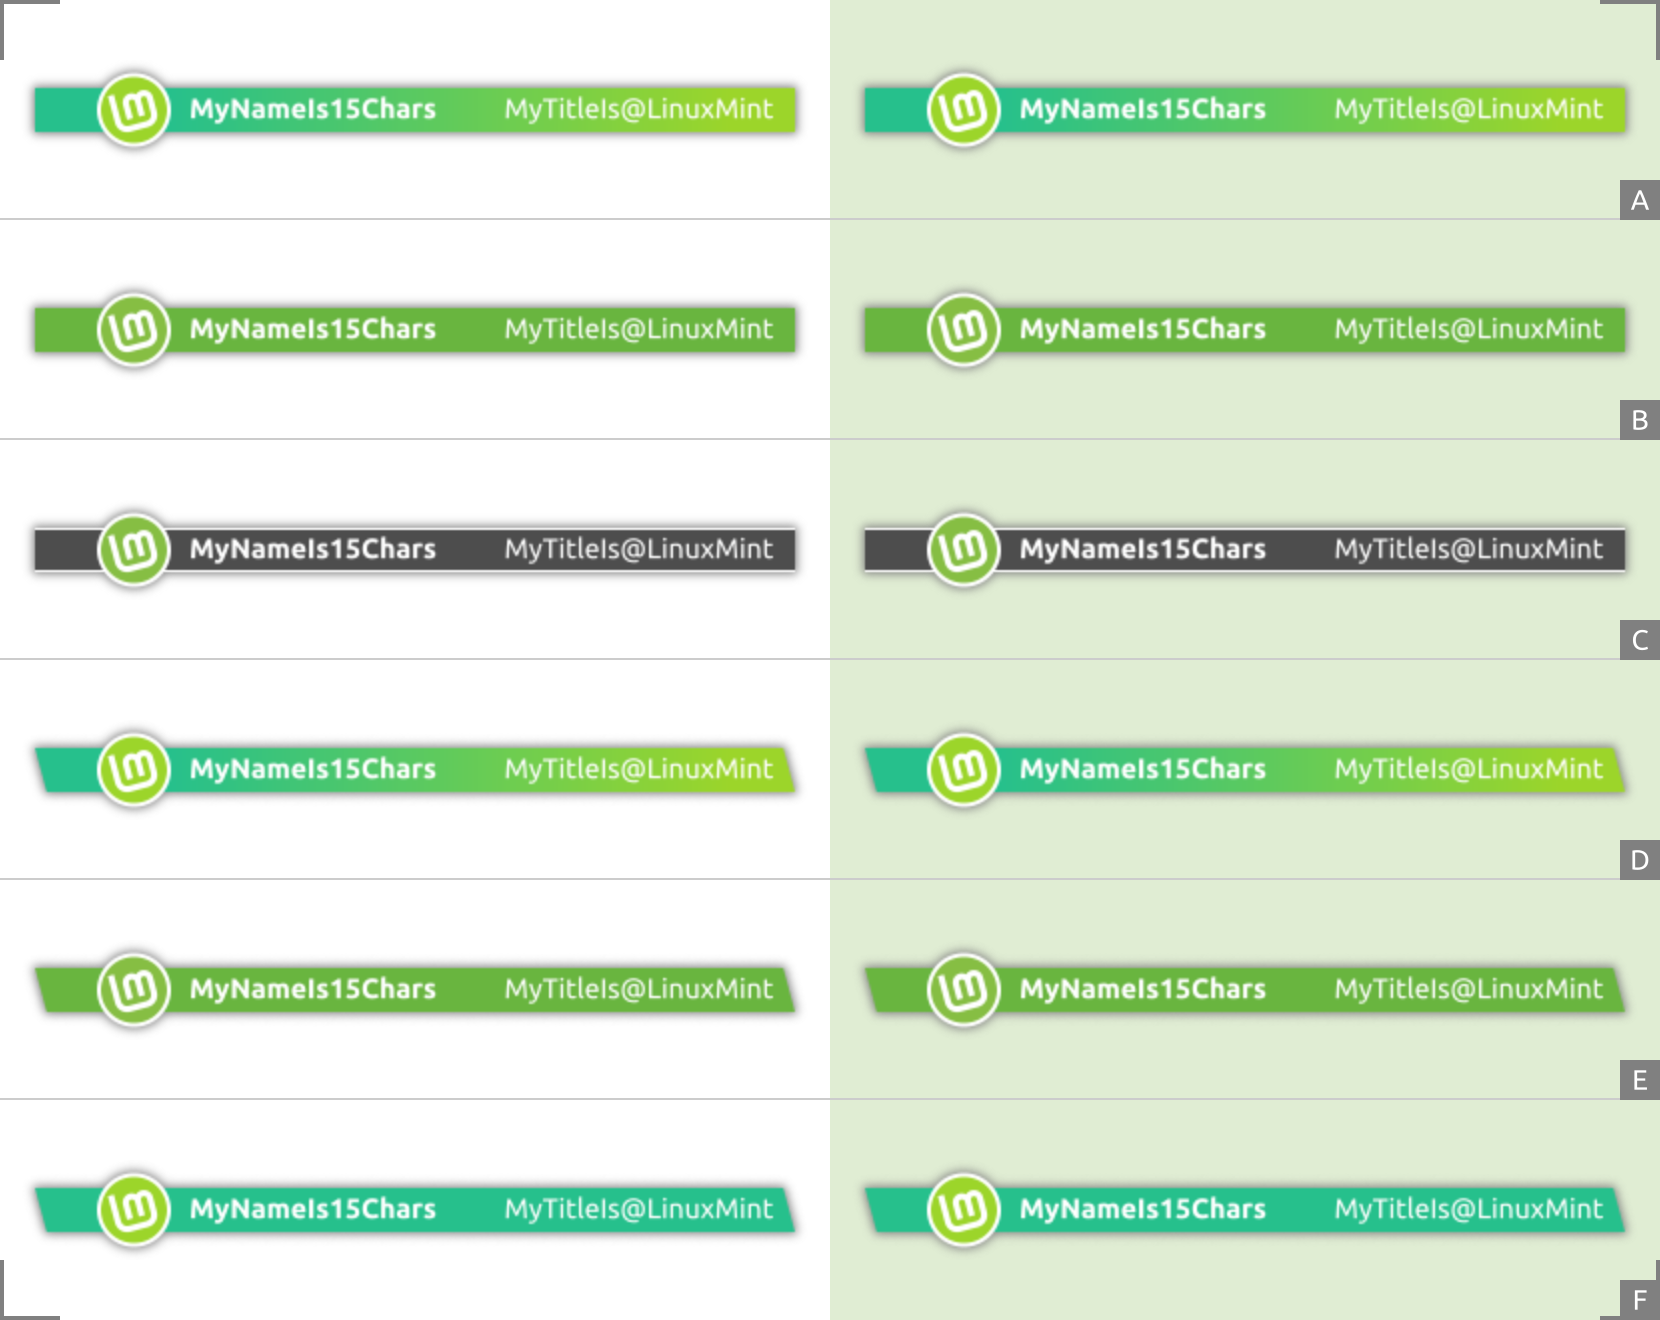
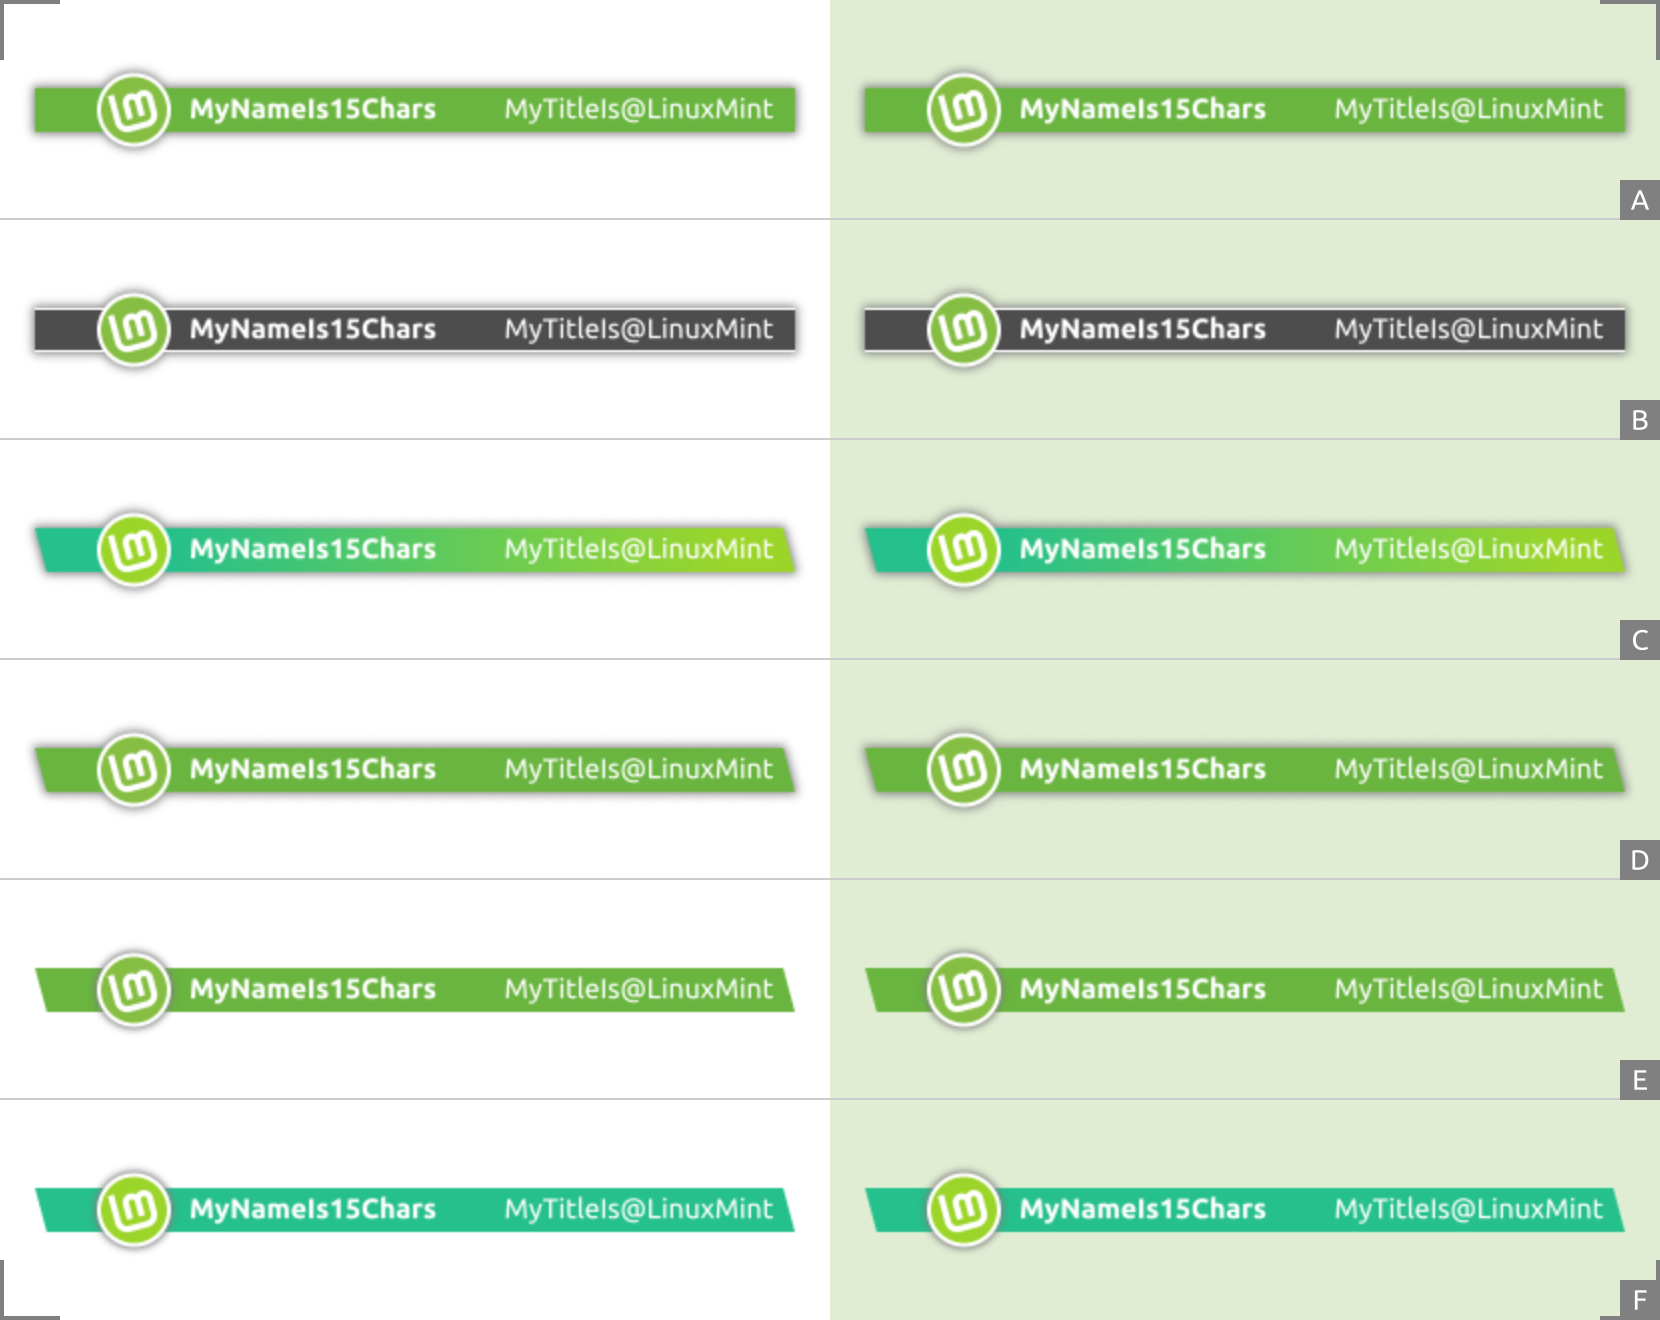
modified and renamed:    sign-twotones-move.svg -> sign-twotones-move-sharp.svg
modified:   README.md
	deleted:    img_host/AZgl1800-sign-twotones-move.png
	deleted:    img_host/sebastjava-sign-twotones-move.png
	modified:   preview-2X.png
	modified:   preview.png
	modified:   preview.svg
	deleted:    sign-twotones-move-2X.png
	new file:   sign-twotones-move-sharp-2X.png
	new file:   sign-twotones-move-sharp.png
	renamed:    sign-twotones-move.svg -> sign-twotones-move-sharp.svg
	deleted:    sign-twotones-move.png
	modified:   sources.txt

diff --git a/README.md b/README.md
@@ -7,23 +7,17 @@ A new signature for the team members and sponsors on the [forums.linuxmint.com](
 
 | Row  | Image name | Row  | Image name |
 | -------- | ------------------- | -------- | ------------------- |
-| A  | sign-gradient-v3.png  | B  | sign-flat.png                    |
-| C  | sign-gray.png             | D  | sign-gradient-move.png  |
-| E  | sign-flat-move.png     | F  | sign-twotones-move.png |
+| A  | sign-flat.png                    | B  | sign-gray.png                             |
+| C  | sign-gradient-move.png  | D  | sign-flat-move.png                    |
+| E  | sign-flat-move-sharp.png | F  | sign-twotones-move-sharp.png |
 
 Here the signatures are pictured on the two alternating background colours as found on the current LinuxMint forums: white and off white (`#E0EDD3`). Off course, these backgrounds could be made different on some future forum designs.
 
 ------
 
-![](sign-gradient-v3-2X.png)
-### sign-gradient-v3
-A fresh new look. This colour gradient is similar to the one found on the main [LinuxMint](https://linuxmint.com/) website. And the difference in hues makes the logo standout from the background bar. This one is ready for some future forum design. (Enlarged view. Please choose a light GitHub theme in [settings/appearance](https://github.com/settings/appearance).)
-
-------
-
 ![](sign-flat-2X.png)
 ### sign-flat
-This is the standard logo colour, on the logo. And the background bar is very similar to those bars on the current forums. (Enlarged view. Please choose a light GitHub theme in [settings/appearance](https://github.com/settings/appearance).)
+This is the standard logo colour, on the logo. And the background bar gets its colour value from the top-left edge of the gradient colour on the main website. (Enlarged view. Please choose a light GitHub theme in [settings/appearance](https://github.com/settings/appearance).)
 
 ------
 
@@ -43,10 +37,16 @@ A fresh new look. This colour gradient is similar to the one found on the main [
 
 ![](sign-flat-move-2X.png)
 ### sign-flat-move
-This is the standard logo colour, on the logo. And the background bar is very similar to those bars on the current forums. (Enlarged view. Please choose a light GitHub theme in [settings/appearance](https://github.com/settings/appearance).)
+This is the standard logo colour, on the logo. And the background bar gets its colour value from the top-left edge of the gradient colour on the main website. (Enlarged view. Please choose a light GitHub theme in [settings/appearance](https://github.com/settings/appearance).)
 
 ------
 
-![](sign-twotones-move-2X.png)
-### sign-twotones-move
-A fresh new look. The two  colour tones used here makes a good contrast between the logo and the background bar. The logo stands out. This one is ready for some future forum design. (Enlarged view. Please choose a light GitHub theme in [settings/appearance](https://github.com/settings/appearance).)
+![](sign-flat-move-sharp-2X.png)
+### sign-flat-move-sharp
+This is the standard logo colour, on the logo. And the background bar gets its colour value from the top-left edge of the gradient colour on the main website. Here there is no shadow on the background bar, giving it a sharper look. (Enlarged view. Please choose a light GitHub theme in [settings/appearance](https://github.com/settings/appearance).)
+
+------
+
+![](sign-twotones-move-sharp-2X.png)
+### sign-twotones-move-sharp
+A fresh new look. The two colour tones used here makes a good contrast between the logo and the background bar. The logo stands out. And the background hue sits within the colour gradient as found on the main website, somewhere near the bottom-right edge. This version is ready for some future forum design. (Enlarged view. Please choose a light GitHub theme in [settings/appearance](https://github.com/settings/appearance).)
